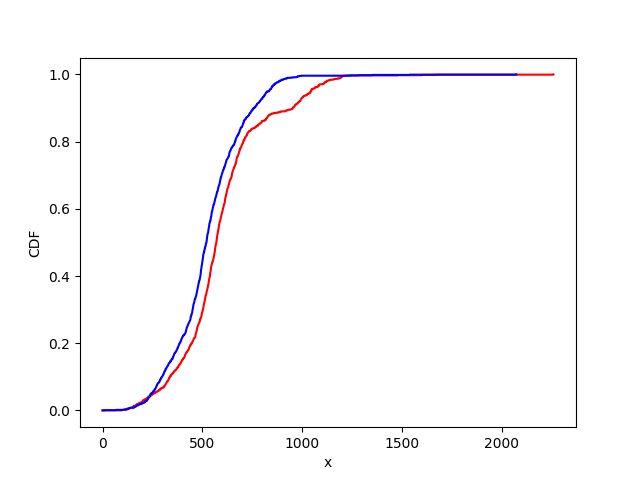
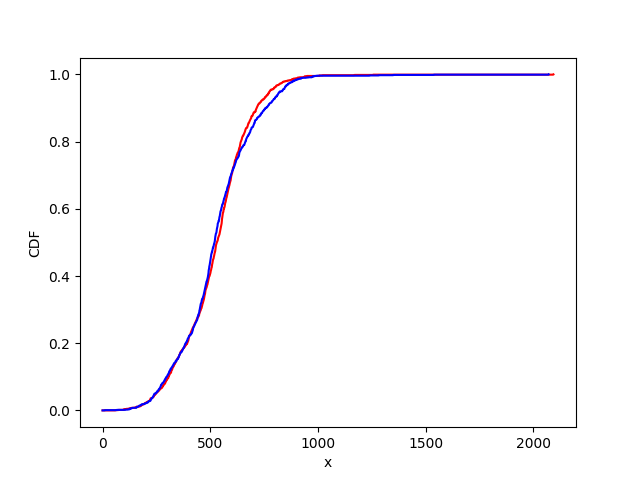
shuffling addedd

diff --git a/NeuralNetwork.py b/NeuralNetwork.py
@@ -4,6 +4,7 @@ from torch_lr_finder import LRFinder
 from torch.utils.data import DataLoader, TensorDataset
 from torch.utils.data import Dataset
 import Errors
+import random
 import Animation
 import DatasetUWB
 
@@ -29,13 +30,17 @@ class NeuralNetwork(nn.Module):
         vector = self.linear_relu_stack(x)
         return vector
 
-    def perform_training(self, epochs, training_data, reference_data):
+    def perform_training(self, epochs, training_data, reference_data, lr=2.07E-03):
         assert (epochs > 0)
         assert (len(training_data) == len(reference_data))
         criterion = nn.L1Loss()
-        optimizer = optim.Adam(self.parameters(), lr=2.07E-03, weight_decay=5e-5)
-        # 2.03E-03
+        optimizer = optim.Adam(self.parameters(), lr=lr, weight_decay=5e-5)
+
         for epoch in range(epochs):
+            if True:
+                idx = torch.randperm(training_data.nelement())
+                training_data = training_data.view(-1)[idx].view(training_data.size())
+                reference_data = reference_data.view(-1)[idx].view(reference_data.size())
             running_loss = 0
             optimizer.zero_grad()
             output = self(training_data)
@@ -54,7 +59,7 @@ class NeuralNetwork(nn.Module):
         criterion = nn.L1Loss()
         optimizer = optim.Adam(self.parameters(), lr=0.000001, weight_decay=5e-5)
         lr_finder = LRFinder(self, optimizer, criterion, device=device)
-        lr_finder.range_test(trainloader, end_lr=1, num_iter=200)
+        lr_finder.range_test(trainloader, end_lr=1, num_iter=500)
         lr_finder.plot()
         lr_finder.reset()
 
@@ -74,7 +79,8 @@ if __name__ == '__main__':
     # dataset = TensorDataset(coords_train, reference_train)
     # dataloader = DataLoader(dataset)
     # network.find_lr("cuda", dataloader)
-    network.perform_training(500, coords_train, reference_train)
+
+    network.perform_training(300, coords_train, reference_train)
 
     out = network.predict(coords_test)
 
